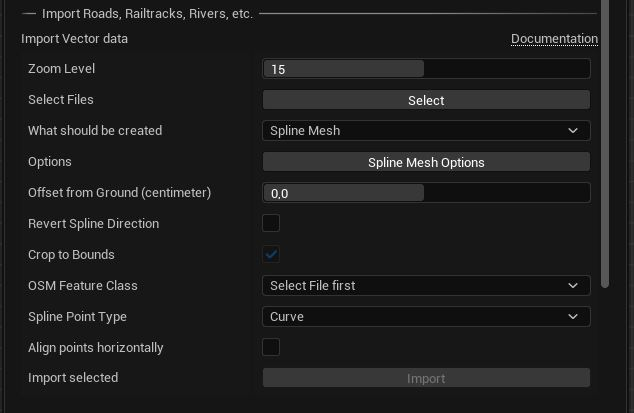
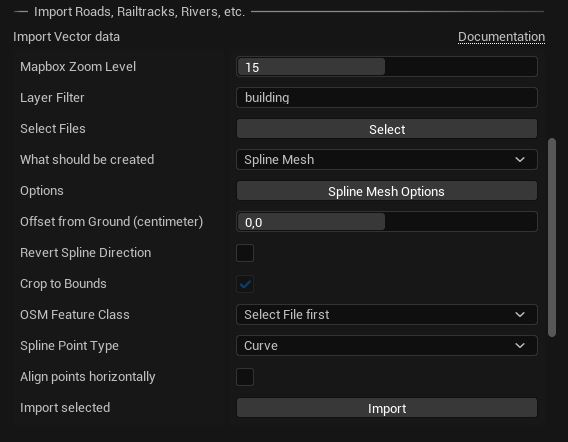
changes for version 7.17 and 7.18

diff --git a/docs/props.md b/docs/props.md
@@ -9,9 +9,10 @@ Landscaping let you create rivers, streets, railroads etc. from Shapefiles with 
 > If you are working with UE4 World Composition: please __unload__ all tiles before proceeding  
 
 0) `Mapbox Zoom Level` Zoom Level for Mapbox vector data import. See [Mapbox Documentation](mapbox.md). Only available with Mapbox Extension.
-1) `Select` a Shapefile, GeoJSON, OSM or GeoPackage file  (to reset the input simply close the Landscaping tab and open it again)  
+1) `Layer Filter` Layer Names to load from file/vector tile. This can be multiple layer names separated by a comma - e.g. `buildings,roads`. Leave empty to load all layers.  
+2) `Select` a Shapefile, GeoJSON, OSM or GeoPackage file  (to reset the input simply close the Landscaping tab and open it again)
 
-2) Define what should be generated along the lines of the imported Shapefile: select `Spline Mesh` or `Actor` or `Paint Layer / Deform Landscape` or `Landscape Spline` (UE 5.1 onwards) from the dropdown. then open the dialog with the button right below the dropdown.  
+3) Define what should be generated along the lines of the imported Shapefile: select `Spline Mesh` or `Actor` or `Paint Layer / Deform Landscape` or `Landscape Spline` (UE 5.1 onwards) from the dropdown. then open the dialog with the button right below the dropdown.  
 
 ![Landscaping Props](_media/ue4_landscaping_shapefile_import.jpg)  
 
@@ -46,16 +47,16 @@ Depending on what is selected in the dropdown, there are 3 different dialogs, bu
     ![Landscaping Splines Options](_media/ue_landscape_splines_options.jpg)  
 
 
-3) `Offset from Ground` specifies how much space will be between the surface of the Landscape and the point of the spline or instantiated Bluprint/Actor
-4) `Revert Spline Direction` can be used, if a river is imported and flows upstream. This can happen, if the shape from the Shapefile is drawn in the wrong direction. When [Draw Vector Data Debug](gis-expert.md?id=draw-vector-data-debug) is enabled, you can zoom in and see an arrow on the first segment of the shape, indicating the direction.
-5) `Crop to bounds` controls if the shapefiles should be cropped to the bounds of the Landscape or World Composition or World Partition. This is especially relevant when importing shapefiles independently without prior import of DTM with the Landscaping plugin. If the Landscape is imported through the plugin, the option defaults to true and cannot be changed.
-6) With `OSM feature class` you can control, what type of features will be instatiated with the Blueprint or Spline when using shapefiles from geofabrik.de. A river should have another Blueprint than a stream and a path another Blueprint than a highway. This dropdown let you select the apropriate feature class of the shape for the Blueprint which should be instantiated on the Landscape. On other shapefiles than from geofabrik.de this will default to `ALL`.  
-7) The dropdown `Spline Point Type` allowes for choosing the the spine point behaviour. For spline based buildings this should be set to `Linear`, for rivers, roads and railtracks, this should be set to `Curve`.  
-8) `Align points horizontally` will make sure, spline points align horizontally. E.g. for procedural spline based buildings. The first point of the shape will snap to the ground with offset from ground taken into account.
+4) `Offset from Ground` specifies how much space will be between the surface of the Landscape and the point of the spline or instantiated Bluprint/Actor
+5) `Revert Spline Direction` can be used, if a river is imported and flows upstream. This can happen, if the shape from the Shapefile is drawn in the wrong direction. When [Draw Vector Data Debug](gis-expert.md?id=draw-vector-data-debug) is enabled, you can zoom in and see an arrow on the first segment of the shape, indicating the direction.
+6) `Crop to bounds` controls if the shapefiles should be cropped to the bounds of the Landscape or World Composition or World Partition. This is especially relevant when importing shapefiles independently without prior import of DTM with the Landscaping plugin. If the Landscape is imported through the plugin, the option defaults to true and cannot be changed.
+7) With `OSM feature class` you can control, what type of features will be instatiated with the Blueprint or Spline when using shapefiles from geofabrik.de. A river should have another Blueprint than a stream and a path another Blueprint than a highway. This dropdown let you select the apropriate feature class of the shape for the Blueprint which should be instantiated on the Landscape. On other shapefiles than from geofabrik.de this will default to `ALL`.  
+8) The dropdown `Spline Point Type` allowes for choosing the the spine point behaviour. For spline based buildings this should be set to `Linear`, for rivers, roads and railtracks, this should be set to `Curve`.  
+9) `Align points horizontally` will make sure, spline points align horizontally. E.g. for procedural spline based buildings. The first point of the shape will snap to the ground with offset from ground taken into account.
 
-> Please make sure to __unload__ all Levels of a World Composition (UE4) (except the Persistent Level) in the Unreal Engine `Levels` tab before hitting `Import`.  In UE5 this will be handled automatically.  
+> Please make sure to __unload__ all Levels of a World Composition (UE4) (except the Persistent Level) in the Unreal Engine `Levels` tab before hitting `Import`.  In UE5 this will be handled automatically - from UE5.1 for World Partition Worlds, please load the cells the vector data is for.  
 
-7) Hit `Import`
+10) Hit `Import`
 
 ## Post Edit Splines
 

diff --git a/docs/changelog.md b/docs/changelog.md
@@ -6,6 +6,15 @@ Changelog for the documentation see: [The Landscaping Docs on Github](https://gi
 ---
 > Since Version 7.15 all changes only apply to UE 5.1 or newer
 
+## Version 7.18
+
+- Feature: `Layer Filter` for loading only specific layers from vector data (Shapefiles, GeoJson, Mapbox Vector Tiles, etc.)
+- Fix: error message popup prevents loading vector data from file
+
+## Version 7.17
+
+- Fix: Max Desired Landscape Size disabled
+
 ## Version 7.16
 
 - Fix performance issue when loading vector data from Mapbox
